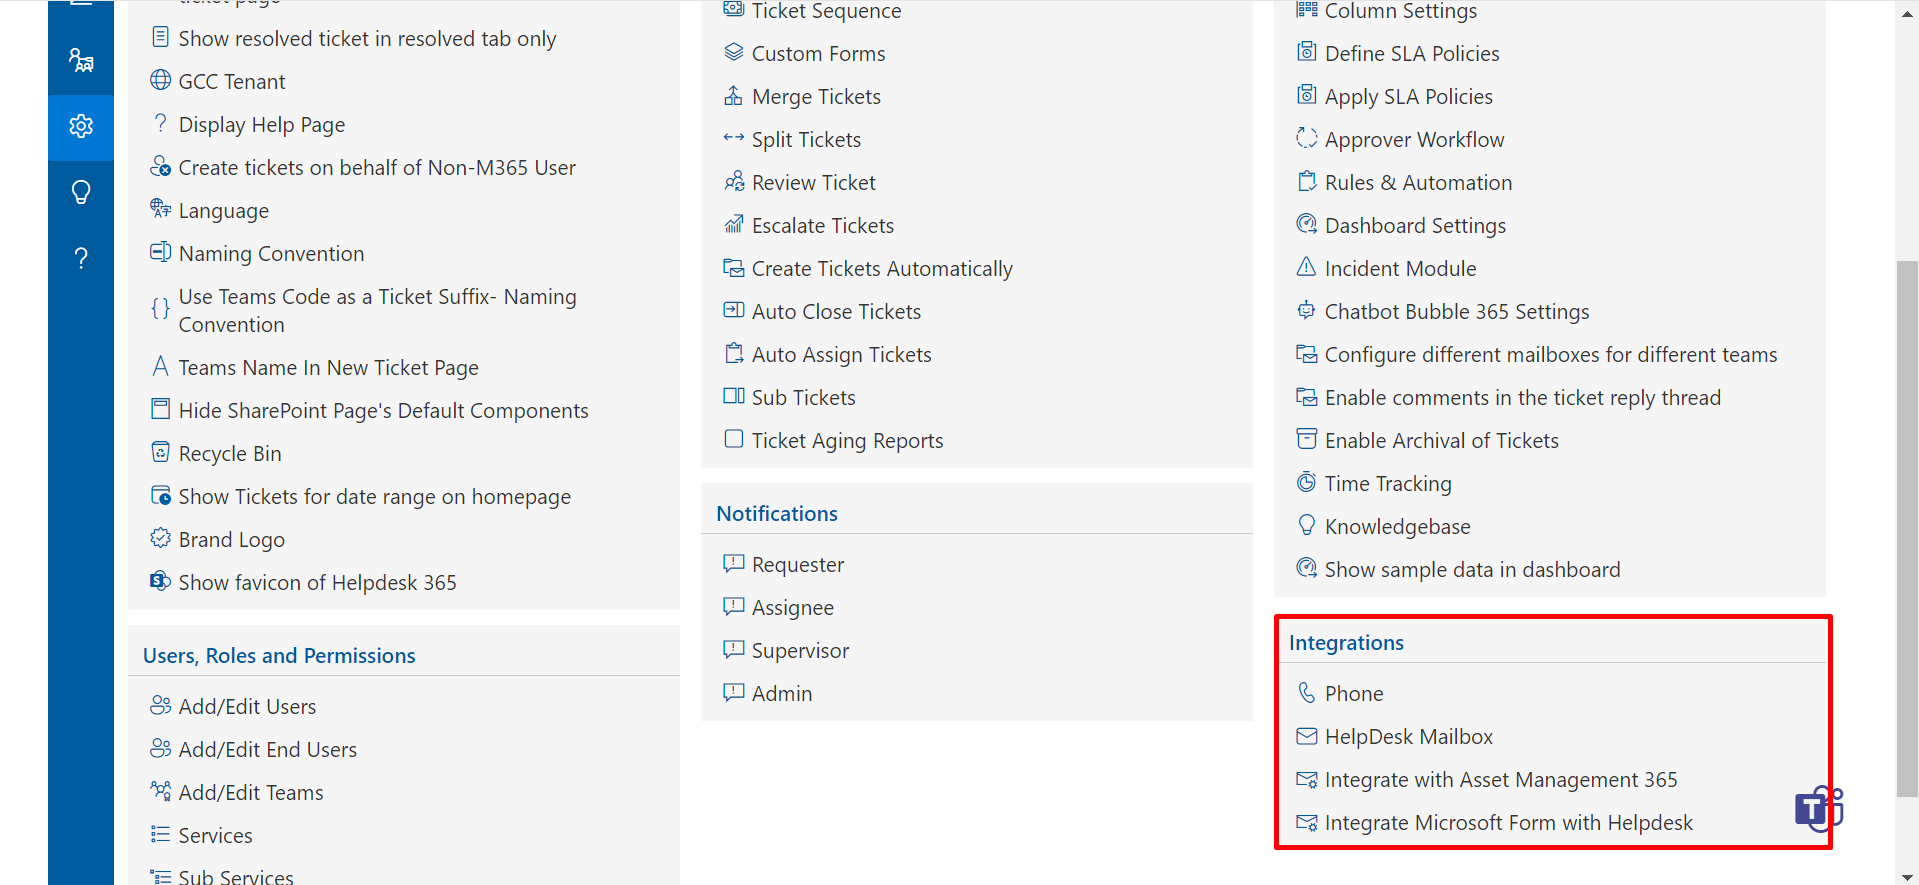
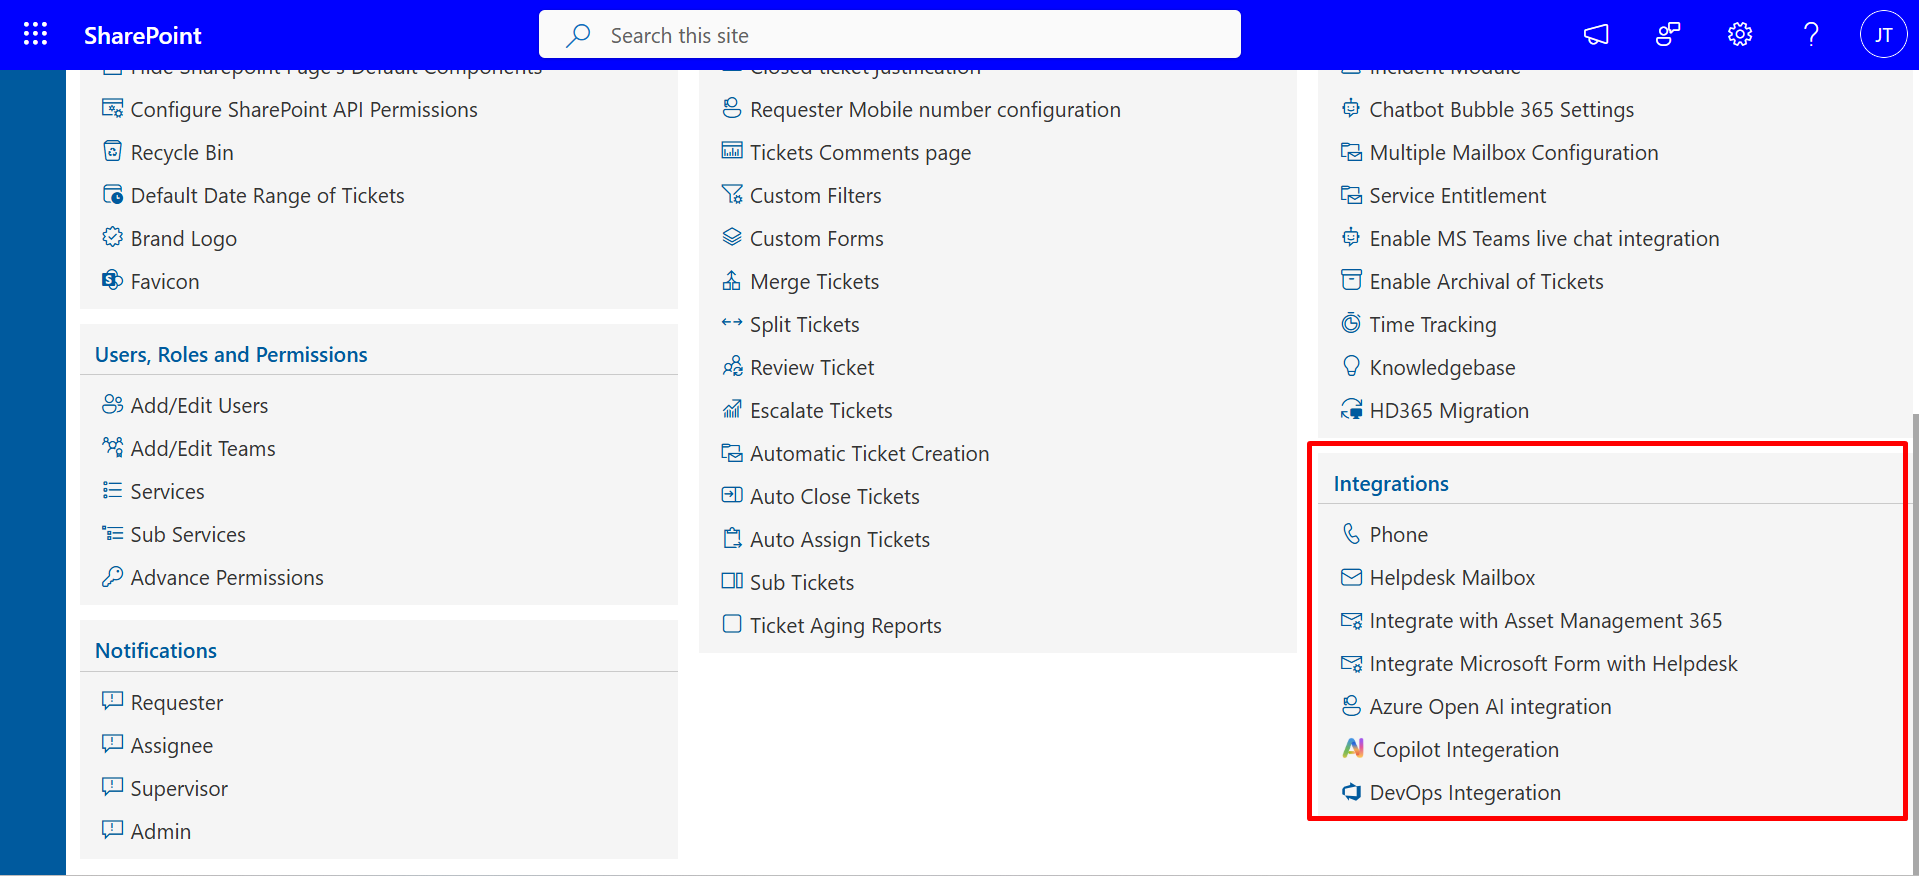
ED-HD-Features

Changed region(s): [[0.0, 0.0, 1.0, 1.0], [0.3689, 0.5548, 0.4919, 0.7397], [0.3689, 0.7705, 0.4304, 0.8014]]

diff --git a/sharepoint-employee-directory/modern/admin/settings/views/index.html b/sharepoint-employee-directory/modern/admin/settings/views/index.html
@@ -6,7 +6,8 @@
   <title>Employee Directory 365 | Admin Guide | Settings | Views</title>
   <meta name="viewport" content="width=device-width,initial-scale=1">
   <meta name="generator" content="Hugo 0.92.2">
-  <meta name="description" content="Employee Directory - HR365. Learn how to configure and manage views in the Employee Directory settings.">
+  <meta name="description"
+    content="Employee Directory - HR365. Learn how to configure and manage views in the Employee Directory settings.">
   <link rel="stylesheet" href="https://hr365docs.github.io/docs/plugins/bootstrap/bootstrap.min.css">
   <link rel="stylesheet" href="https://hr365docs.github.io/docs/plugins/themify-icons/themify-icons.css">
   <link rel="icon" href="#" type="image/x-icon">
@@ -38,7 +39,7 @@
       }); var f = d.getElementsByTagName(s)[0],
         j = d.createElement(s), dl = l != 'dataLayer' ? '&l=' + l : ''; j.async = true; j.src =
           'https://www.googletagmanager.com/gtm.js?id=' + i + dl; f.parentNode.insertBefore(j, f);
-  })(window, document, 'script', 'dataLayer', 'GTM-TX9SKDMB');</script>
+    })(window, document, 'script', 'dataLayer', 'GTM-TX9SKDMB');</script>
   <!-- End Google Tag Manager -->
 </head>
 
@@ -519,6 +520,45 @@
                     <div><img src="DisplayedMember.png" onclick="openModal('DisplayedMember.png')"
                         alt="Update users role" width="100%" height="auto"></div><br>
                     <p>
+                    <p>
+                      If the Show praise toggle is on.
+                    </p>
+                    <div><img src="Praise.png" onclick="openModal('Praise.png')" alt="Update users role" width="100%"
+                        height="auto"></div><br>
+                    <p>
+                      Once the toggle is enabled, the Praise icon will be visible on the home screen.
+                    </p>
+                    <div><img src="homepagePraise.png" onclick="openModal('homepagePraise.png')" alt="Update users role"
+                        width="100%" height="auto"></div><br>
+                    <p>
+                      To send a praise, fill in the required fields including the recipient’s name, select the praise
+                      type, choose the specific praise, and then click <b>Submit</b> to complete the process.
+                    </p>
+                    <div><img src="PraiseData.png" onclick="openModal('PraiseData.png')" alt="Update users role"
+                        width="100%" height="auto"></div><br>
+                    <p>
+                      The user will receive the praise, and it will be added to their profile as a part of their
+                      recognition history.
+                    </p>
+                    <div><img src="Praises.png" onclick="openModal('Praises.png')" alt="Update users role" width="100%"
+                        height="auto"></div><br>
+                    <p>
+                      Turn on the toggle to enable the Show text to speech functionality.
+                    </p>
+                    <div><img src="showtextSpeech.png" onclick="openModal('showtextSpeech.png')" alt="Update users role"
+                        width="100%" height="auto"></div><br>
+                    <p>
+                      The Text-to-Speech icon (🔊) will be visible in the Grid View on the user's Profile Card,
+                      positioned next to their name.
+
+                      By clicking the speaker icon, the system will use built-in text-to-speech functionality to
+                      pronounce the user's name aloud.
+                    </p>
+                    <div><img src="SpeechIcon.png" onclick="openModal('SpeechIcon.png')" alt="Update users role"
+                        width="100%" height="auto"></div><br>
+                    <p>
+
+                    <p>
                       If the Organizational Chart toggle is on.
                     </p>
                     <div><img src="OrgChart.png" onclick="openModal('OrgChart.png')" alt="Update users role"
@@ -901,6 +941,28 @@
                     <div><img src="ProfileCard.png" onclick="openModal('ProfileCard.png')" alt="Update users role"
                         width="100%" height="auto"></div><br>
 
+                  </ul>
+
+                </div>
+                <div class="bg-light p-4 remove-padding common-scroll" id="">
+                  <ul class=page-list>
+                    <h2 id="_dashboards"><a class="header-icon-link highlight" href=#>
+                        User properties in hover card
+                        <i class="fas fa-link" style="font-size:12px; color:lightgray;"></i></a>
+                    </h2><br>
+
+                    <p>The User Properties in Hover Card feature enables admins to customize the details shown when
+                      hovering over a user's profile in the directory. This allows key user information to be displayed
+                      at a glance, enhancing visibility and quick access to relevant data.</p>
+                    <div><img src="hoverCard.png" onclick="openModal('hoverCard.png')" alt="Update users role"
+                        width="100%" height="auto"></div><br>
+                    <p>You can update the User properties in hover card.</p>
+                    <div><img src="UserProperitesHover.png" onclick="openModal('UserProperitesHover.png')"
+                        alt="Update users role" width="100%" height="auto"></div><br>
+                    <p>Once configured, the selected user properties will appear in the hover card view across the
+                      Employee Directory application, ensuring consistent and quick access to key user information.</p>
+                    <div><img src="HoverCarddetails.png" onclick="openModal('HoverCarddetails.png')"
+                        alt="Update users role" width="100%" height="auto"></div><br>
                   </ul>
 
                 </div>

diff --git a/sharepoint-helpdesk/modern/admin/settings/general/index.html b/sharepoint-helpdesk/modern/admin/settings/general/index.html
@@ -259,6 +259,24 @@
 
                             </div>
                         </div>
+                        <div class="bg-light p-4 remove-padding common-scroll"
+                            id="Disable New ticket Popup Notification">
+                            <div class=page-list>
+                                <h2 id="_dashboards"><a class="header-icon-link highlight" href=#>Disable New ticket
+                                        Popup Notification
+                                        <i class="fas fa-link" style="font-size:12px; color:lightgray;"></i></a>
+                                </h2>
+
+                                <p>
+                                    If the user enables the "Disable New Ticket Popup Notification" option, the
+                                    notification popup will not appear after creating a ticket.
+                                </p>
+
+                                <div><img src="DisableNewTicket.png" onclick="openModal('DisableNewTicket.png')"
+                                        alt="help" width="100%" height="auto"></div>
+
+                            </div>
+                        </div>
                         <div class="bg-light p-4 remove-padding common-scroll" id="singleLine">
                             <div class=page-list>
                                 <h2 id="_dashboards"><a class="header-icon-link highlight" href=#>Single line ticket
@@ -315,15 +333,21 @@
                         <div class="bg-light p-4 remove-padding common-scroll" id="emailcss">
                             <div class=page-list>
                                 <h2 id="_dashboards"><a class="header-icon-link highlight" href=#>Disable New ticket
-                                        option for Users <i class="fas fa-link" style="font-size:12px; color:lightgray;"></i></a>
+                                        option for Users <i class="fas fa-link"
+                                            style="font-size:12px; color:lightgray;"></i></a>
                                 </h2>
 
-                                <p>When the "Disable New Ticket Option for Users" toggle is turned ON, users with the "User" role will no longer see the "New Ticket Create" button in the application. This setting ensures that only authorized roles, such as Admins or specific support agents, can create new tickets, restricting general users from raising new requests.
-<br>
-                                    If this toggle is turned OFF, all users, including those with the "User" role, will be able to access and create new tickets as usual.</p>
+                                <p>When the "Disable New Ticket Option for Users" toggle is turned ON, users with the
+                                    "User" role will no longer see the "New Ticket Create" button in the application.
+                                    This setting ensures that only authorized roles, such as Admins or specific support
+                                    agents, can create new tickets, restricting general users from raising new requests.
+                                    <br>
+                                    If this toggle is turned OFF, all users, including those with the "User" role, will
+                                    be able to access and create new tickets as usual.
+                                </p>
 
-                                <div><img src="newCreationbtn.png" onclick="openModal('newCreationbtn.png')" alt="help" width="100%"
-                                        height="auto"></div>
+                                <div><img src="newCreationbtn.png" onclick="openModal('newCreationbtn.png')" alt="help"
+                                        width="100%" height="auto"></div>
 
                             </div>
                         </div>

diff --git a/sharepoint-helpdesk/modern/admin/settings/integration/index.html b/sharepoint-helpdesk/modern/admin/settings/integration/index.html
@@ -308,6 +308,40 @@
                                 </li>
                         </div>
 
+                        <div class="bg-light p-4 remove-padding common-scroll" id="">
+                            <ul class=page-list>
+                                <h2 id="_dashboards"><a class="header-icon-link highlight " href=#>Copilot Integeration
+                                        <i class="fas fa-link " style="font-size:12px; color:lightgray;"></i></a>
+                                </h2>
+
+
+                                <p>
+                                    Use this toggle to enable or disable Copilot integration. Enter the configured Power
+                                    Automate (PA) URL and click Save to activate the feature.
+
+                                </p>
+
+                                <div><img src="copilot.png" onclick="openModal( 'copilot.png') " alt="Copilot"
+                                        width="100% " height="auto"></div>
+                                <br>
+                                <p> Once configured, Copilot will appear on the Comment page.</p>
+
+                                <div><img src="commentpage-copilot.png" onclick="openModal( 'commentpage-copilot.png') "
+                                        alt="Copilot" width="100% " height="auto"></div>
+                                <p>When you click on <b>Helpdesk Copilot</b>, the Copilot section will be displayed,
+                                    where you
+                                    can enter your questions.</p>
+
+                                <div><img src="copilot-ques.png" onclick="openModal( 'copilot-ques.png') " alt="Copilot"
+                                        width="100% " height="auto"></div>
+                                <p>Copilot will then be ready to assist you, and you can access it from the function
+                                    bar.</p>
+
+                                <div><img src="SendMessage.png" onclick="openModal( 'SendMessage.png') " alt="Copilot"
+                                        width="100% " height="auto"></div>
+
+
+                        </div>
                         <div class="bg-light p-4 remove-padding common-scroll" id="integrateMicrosoft">
                             <ul class=page-list>
                                 <h2 id="_dashboards"><a class="header-icon-link highlight " href=#>Integrate Microsoft

diff --git a/sharepoint-helpdesk/modern/admin/settings/role/index.html b/sharepoint-helpdesk/modern/admin/settings/role/index.html
@@ -307,6 +307,8 @@
                                     </li> <br>
                                     <div><img src="3.png" onclick="openModal('3.png')" alt="Add users" width="100%"
                                             height="auto"></div>
+                                    <br>
+                                    
                                 </ol>
                                 <br>
                         </div>
@@ -446,8 +448,26 @@
 
                                 </ol>
 
-
-
+<br><br>
+                                <p>In the <b> Add User</b> section, there are two types of Lite Users available: <b> Lite User
+                                    Approver </b> and <b> Lite User Dispatcher</b>.</p>
+                                <div><img src="liteuser.png" onclick="openModal('liteuserpng')" alt="Add users" width="100%"
+                                        height="auto"></div>
+                                        <br>
+                                <p>The Lite User Approver can access the Approval tab to review and approve tickets.</p>
+                                <div><img src="Approval.png" onclick="openModal('Approval.png')" alt="Add users" width="100%"
+                                        height="auto"></div>
+                                        <br>
+                                <p>The Lite User Dispatcher functions like an agent but does not receive tickets assigned by other users.</p>
+                                <div><img src="User.png" onclick="openModal('User.png')" alt="Add users" width="100%"
+                                        height="auto"></div>
+                                        <br>
+                                <p>Their name does not appear in the Assigned To dropdowns.</p>
+                                <div><img src="not-Assigned.png" onclick="openModal('not-Assigned.png')" alt="Add users" width="100%"
+                                        height="auto"></div>
+                                <p>The Help page displays the count of Lite User Approvers and Lite User Dispatchers.</p>
+                                <div><img src="usercansee.png" onclick="openModal('usercansee.png')" alt="Add users" width="100%"
+                                        height="auto"></div>
 
 
                         </div>

diff --git a/sharepoint-helpdesk/modern/admin/home-page/index.html b/sharepoint-helpdesk/modern/admin/home-page/index.html
@@ -229,6 +229,16 @@
                             <div><img src="createView.png" onclick="openModal('createView.png')" alt="Create View"
                                     width="100%" height="auto"></div>
                             <br>
+                            <p>When a user configures a view, they can share it on the same site. The shared view will
+                                only be visible to the selected user. To share, the user needs to click the Share icon
+                                and then select the user with whom they want to share the view.</p>
+
+                            <div><img src="Configure-custom-view.png" onclick="openModal('Configure-custom-view.png')"
+                                    alt="Create View" width="100%" height="auto"></div>
+                            <br>
+                            <div><img src="Share.png" onclick="openModal('Share.png')"
+                                    alt="Create View" width="100%" height="auto"></div>
+                            <br>
 
                             <h4>Assign tickets and update status from the home page.</h4>
 
@@ -250,11 +260,12 @@
                                 and finalize changes with a single 'Update' action.</p>
                             <div><img src="UnAssignTicket.png" onclick="openModal('UnAssignTicket.png')"
                                     alt="Create View" width="100%" height="auto"></div>
-                                    <br>
-                                    <p>Users can now efficiently update the status, team, and assignee for all unassigned tickets by utilizing the multi-select option.</p>
+                            <br>
+                            <p>Users can now efficiently update the status, team, and assignee for all unassigned
+                                tickets by utilizing the multi-select option.</p>
                             <div><img src="MultipleSelect.png" onclick="openModal('MultipleSelect.png')"
                                     alt="Create View" width="100%" height="auto"></div>
-                                    <br>
+                            <br>
 
                             <br>
 
